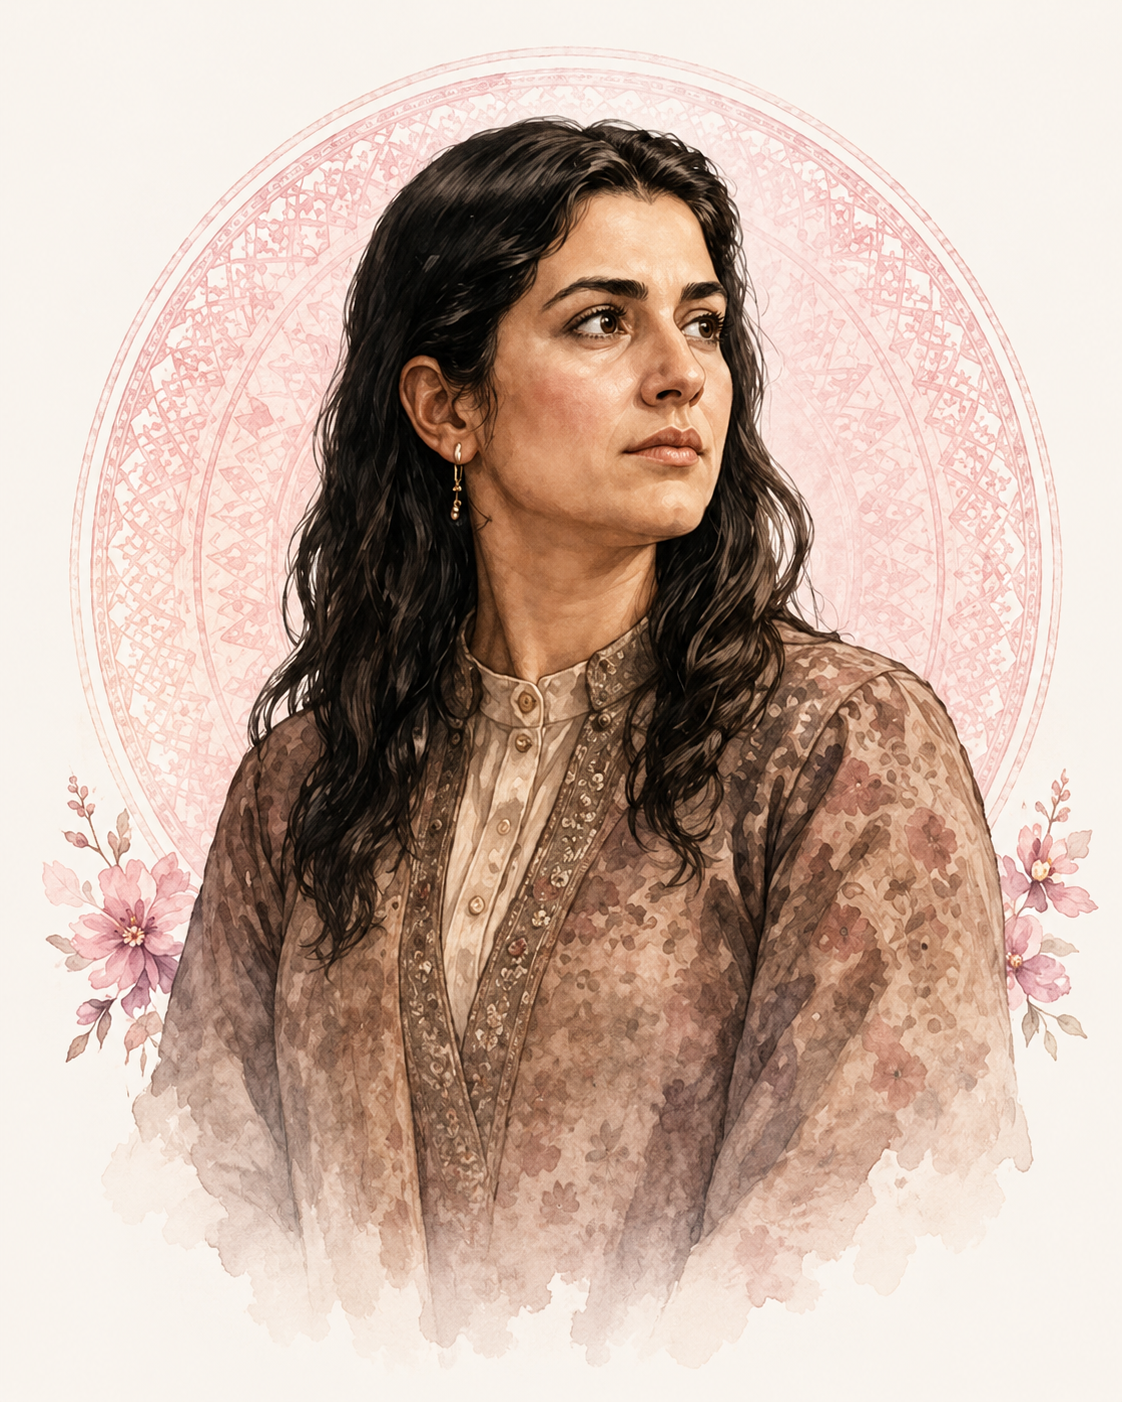
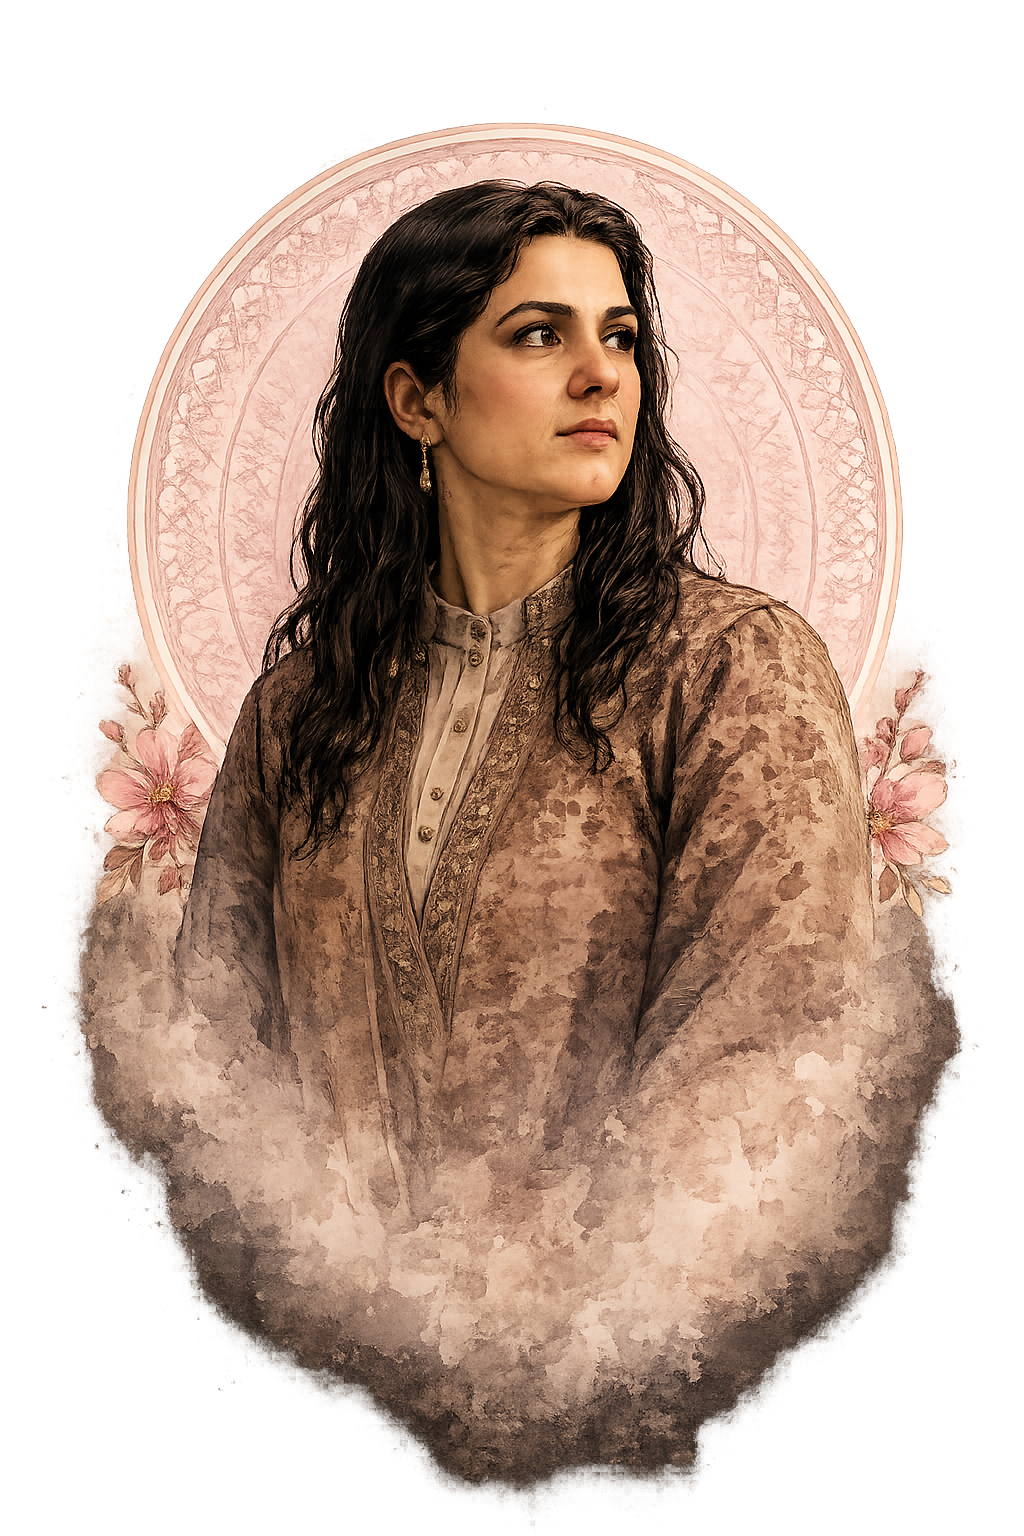
Update Women page to include Knowledge section and adjust active section state
- Added WomenKnowledgePage component for enhanced content display.
- Updated activeSection state to manage navigation between Knowledge and Resistance sections.
- Replaced Leyla image asset in Resistance component for visual consistency.

diff --git a/src/components/Sections/women/Knowledge.tsx b/src/components/Sections/women/Knowledge.tsx
@@ -1,0 +1,205 @@
+import React from "react";
+import gsap from "gsap";
+import { BookOpen, Feather, Sparkles } from "lucide-react";
+
+import knowledgeHero from "@/assets/images/women/w-6.png";
+import masturaImage from "@/assets/images/women/w-2.png";
+import hapsaImage from "@/assets/images/women/w-3.png";
+
+const knowledgeWomen = [
+  {
+    name: "Mastura Ardalan",
+    role: "Historian and Poet",
+    description:
+      "One of the earliest known Kurdish women writers, remembered for history writing and poetry that preserved Kurdish memory.",
+    image: masturaImage,
+  },
+  {
+    name: "Hapsa Khan",
+    role: "Pioneer of Girls’ Education",
+    description:
+      "A leading advocate for women’s education who helped establish girls’ schooling and encouraged families to educate their daughters.",
+    image: hapsaImage,
+  },
+];
+
+export default function WomenKnowledgePage() {
+  const sectionRef = React.useRef<HTMLElement | null>(null);
+
+  React.useEffect(() => {
+    if (!sectionRef.current) return;
+
+    const ctx = gsap.context(() => {
+      gsap.set("[data-fade='true']", { autoAlpha: 0, y: 28 });
+      gsap.set("[data-hero='true']", { autoAlpha: 0, scale: 1.04 });
+      gsap.set("[data-card='true']", {
+        autoAlpha: 0,
+        y: 35,
+        rotateX: -8,
+        transformOrigin: "center top",
+      });
+
+      const tl = gsap.timeline({ defaults: { ease: "power2.out" } });
+
+      tl.to("[data-hero='true']", {
+        autoAlpha: 1,
+        scale: 1,
+        duration: 1.2,
+      })
+        .to(
+          "[data-fade='true']",
+          {
+            autoAlpha: 1,
+            y: 0,
+            duration: 0.8,
+            stagger: 0.12,
+          },
+          "-=0.7",
+        )
+        .to(
+          "[data-card='true']",
+          {
+            autoAlpha: 1,
+            y: 0,
+            rotateX: 0,
+            duration: 0.85,
+            stagger: 0.14,
+          },
+          "-=0.35",
+        );
+
+      gsap.to("[data-floating='true']", {
+        y: -10,
+        duration: 2.5,
+        repeat: -1,
+        yoyo: true,
+        ease: "sine.inOut",
+        stagger: 0.18,
+      });
+    }, sectionRef);
+
+    return () => ctx.revert();
+  }, []);
+
+  return (
+    <main className="m-0 flex min-h-screen w-screen justify-center bg-[#f9f3e8] p-0 text-[#2a1534]">
+      <section
+        ref={sectionRef}
+        className="relative flex min-h-screen w-[min(100vw,1400px)] flex-col overflow-hidden bg-[#fcf7ef] px-8 py-10 sm:px-12 lg:px-16"
+      >
+        <div className="pointer-events-none absolute inset-0 bg-[radial-gradient(circle_at_70%_7%,rgba(205,143,151,0.18),transparent_34%),radial-gradient(circle_at_25%_54%,rgba(212,185,143,0.12),transparent_30%)]" />
+
+        {/* Hero */}
+        <section className="relative z-10 grid min-h-[560px] grid-cols-[0.82fr_1.18fr] items-center">
+          <div data-fade="true" className="relative z-20">
+            <Sparkles className="mb-8 h-16 w-16 text-[#b4864d]" />
+
+            <h1 className="font-serif text-[88px] font-medium leading-[0.95] tracking-tight text-[#2c1337] lg:text-[96px]">
+              Women of
+              <br />
+              Knowledge
+            </h1>
+
+            <div className="my-8 flex w-[290px] items-center gap-3 text-[#b4864d]">
+              <span className="h-px flex-1 bg-[#d4b98f]" />
+              <span className="h-3 w-3 rotate-45 bg-[#b4864d]" />
+              <span className="h-px flex-1 bg-[#d4b98f]" />
+            </div>
+
+            <h2 className="max-w-[400px] font-serif text-[31px] italic leading-snug text-[#a75a69]">
+              Writers, historians, and pioneers of education.
+            </h2>
+
+            <p className="mt-8 max-w-[365px] text-[22px] leading-[1.55] text-[#56505a]">
+              Through scholarship, writing, and education, Kurdish women have
+              helped preserve memory and open new paths for future generations.
+            </p>
+          </div>
+
+          <div data-hero="true" className="pointer-events-none relative h-[560px]">
+        
+            <img
+              src={knowledgeHero}
+              alt="Women of Knowledge"
+              className="absolute bottom-0 right-[-20px] h-full w-full object-contain object-right-bottom"
+            />
+          </div>
+        </section>
+
+        {/* Cards */}
+        <section className="relative z-20 mt-4 grid grid-cols-2 gap-8">
+          {knowledgeWomen.map((woman) => (
+            <article
+              data-card="true"
+              key={woman.name}
+              className="relative overflow-hidden rounded-[28px] border border-[#dfcdb7] bg-white/65 px-9 pb-10 pt-8 text-center shadow-[0_10px_25px_rgba(67,35,45,0.12)]"
+            >
+              <div className="relative mx-auto h-[285px] w-[285px]">
+                <div className="absolute inset-0 rounded-full bg-[#c2768a]/35" />
+
+                <img
+                  src={woman.image}
+                  alt={woman.name}
+                  className="relative z-10 h-full w-full rounded-full object-cover object-top"
+                />
+
+                <div
+                  data-floating="true"
+                  className="absolute -bottom-3 right-[-28px] h-24 w-24 rounded-full bg-[#d99bad]/25 blur-xl"
+                />
+              </div>
+
+              <h3 className="mt-8 font-serif text-[44px] leading-none text-[#2c1736]">
+                {woman.name}
+              </h3>
+
+              <p className="mt-4 font-serif text-[25px] italic text-[#a75a69]">
+                {woman.role}
+              </p>
+
+              <div className="mx-auto mt-5 flex w-[120px] items-center gap-3 text-[#b4864d]">
+                <span className="h-px flex-1 bg-[#d4b98f]" />
+                <span className="h-3 w-3 rotate-45 bg-[#b4864d]" />
+                <span className="h-px flex-1 bg-[#d4b98f]" />
+              </div>
+
+              <p className="mx-auto mt-6 max-w-[390px] text-[21px] leading-relaxed text-[#4f4a55]">
+                {woman.description}
+              </p>
+            </article>
+          ))}
+        </section>
+
+        {/* Why This Matters */}
+        <section
+          data-fade="true"
+          className="relative z-20 mt-8 flex min-h-[165px] items-center overflow-hidden rounded-[28px] border border-[#dfcdb7] bg-white/60 px-12 shadow-[0_8px_22px_rgba(67,35,45,0.1)]"
+        >
+          <div className="grid h-28 w-28 shrink-0 place-items-center rounded-full bg-[#b85f79] text-white">
+            <div className="relative">
+              <BookOpen className="h-14 w-14 stroke-[1.4]" />
+              <Feather className="absolute -right-5 -top-4 h-11 w-11 rotate-12 stroke-[1.3]" />
+            </div>
+          </div>
+
+          <div className="ml-12">
+            <h2 className="font-serif text-[42px] leading-none text-[#2c1736]">
+              Why This Matters
+            </h2>
+
+            <div className="my-5 flex w-[260px] items-center gap-3 text-[#b4864d]">
+              <span className="h-px flex-1 bg-[#d4b98f]" />
+              <span className="h-3 w-3 rotate-45 bg-[#b4864d]" />
+              <span className="h-px flex-1 bg-[#d4b98f]" />
+            </div>
+
+            <p className="max-w-[850px] text-[20px] leading-relaxed text-[#4f4a55]">
+              Their work shows that knowledge, education, and literature have
+              long been central to Kurdish women’s contribution to society.
+            </p>
+          </div>
+        </section>
+      </section>
+    </main>
+  );
+}

diff --git a/src/pages/Women.tsx b/src/pages/Women.tsx
@@ -4,6 +4,7 @@ import {
   Sparkles,
 } from "lucide-react";
 import gsap from "gsap";
+import WomenKnowledgePage from "@/components/Sections/women/Knowledge";
 import WomenResistancePage from "@/components/Sections/women/Resistance";
 
 import legacyHero from "@/assets/images/women/w-1.png";
@@ -57,7 +58,7 @@ export default function LegacyPage({
   onExploreMore,
 }: LegacyPageProps) {
   const sectionRef = React.useRef<HTMLElement | null>(null);
-  const [activeSection, setActiveSection] = React.useState<"resistance" | null>(null);
+  const [activeSection, setActiveSection] = React.useState<"knowledge" | "resistance" | null>(null);
 
   React.useEffect(() => {
     if (!sectionRef.current) return;
@@ -118,6 +119,10 @@ export default function LegacyPage({
     return () => ctx.revert();
   }, []);
 
+  if (activeSection === "knowledge") {
+    return <WomenKnowledgePage />;
+  }
+
   if (activeSection === "resistance") {
     return <WomenResistancePage onBack={() => setActiveSection(null)} />;
   }
@@ -177,6 +182,9 @@ export default function LegacyPage({
                 key={card.title}
                 type="button"
                 onClick={() => {
+                  if (card.title === "Knowledge") {
+                    setActiveSection("knowledge");
+                  }
                   if (card.title === "Resistance") {
                     setActiveSection("resistance");
                   }

diff --git a/src/components/Sections/women/Resistance.tsx b/src/components/Sections/women/Resistance.tsx
@@ -4,7 +4,7 @@ import { ArrowLeft, Sparkles, Quote } from "lucide-react";
 
 import resistanceHero from "@/assets/images/women/w-2.png";
 import zeynabImage from "@/assets/images/women/w-3.png";
-import leylaImage from "@/assets/images/women/w-5.png";
+import leylaImage from "@/assets/images/women/w-4.png";
 
 const resistanceWomen = [
   {
